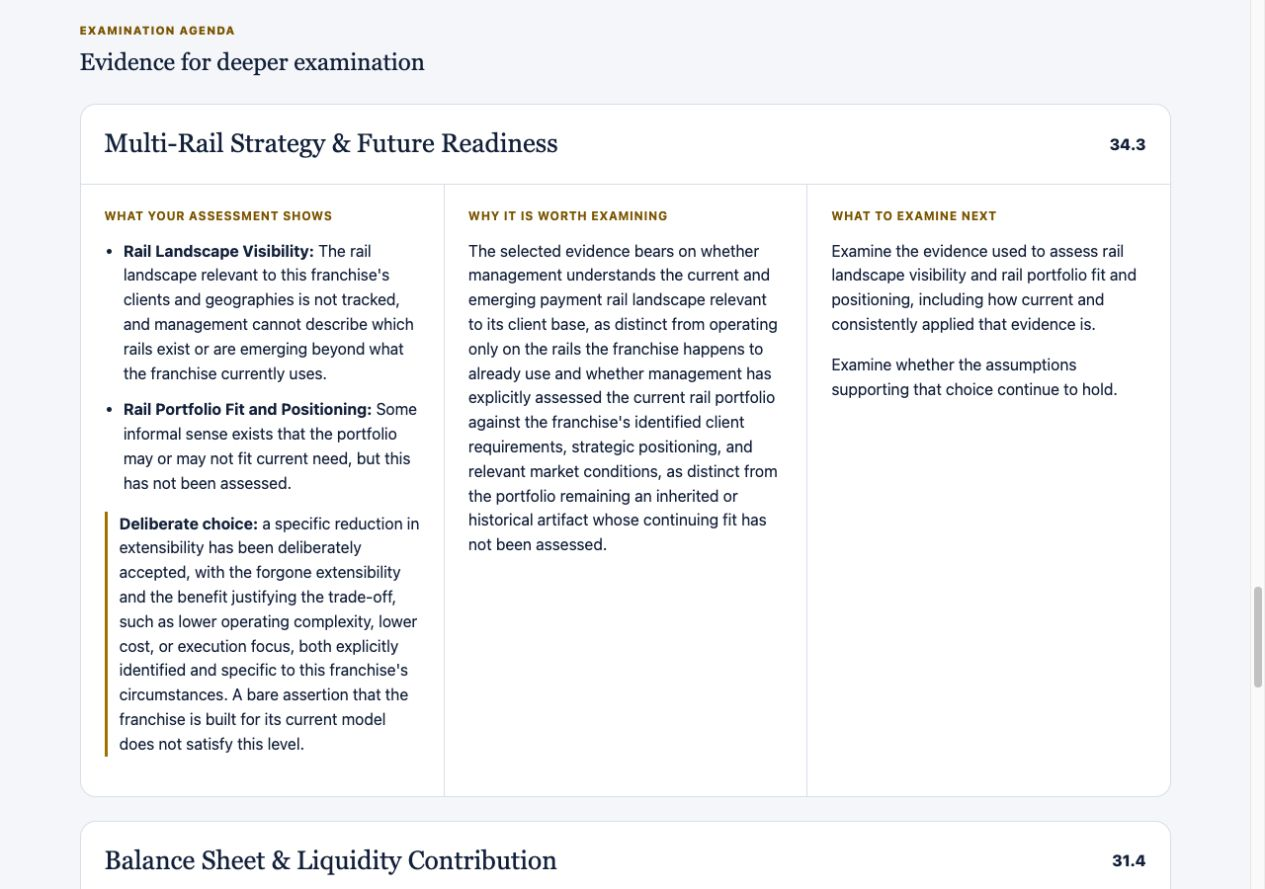
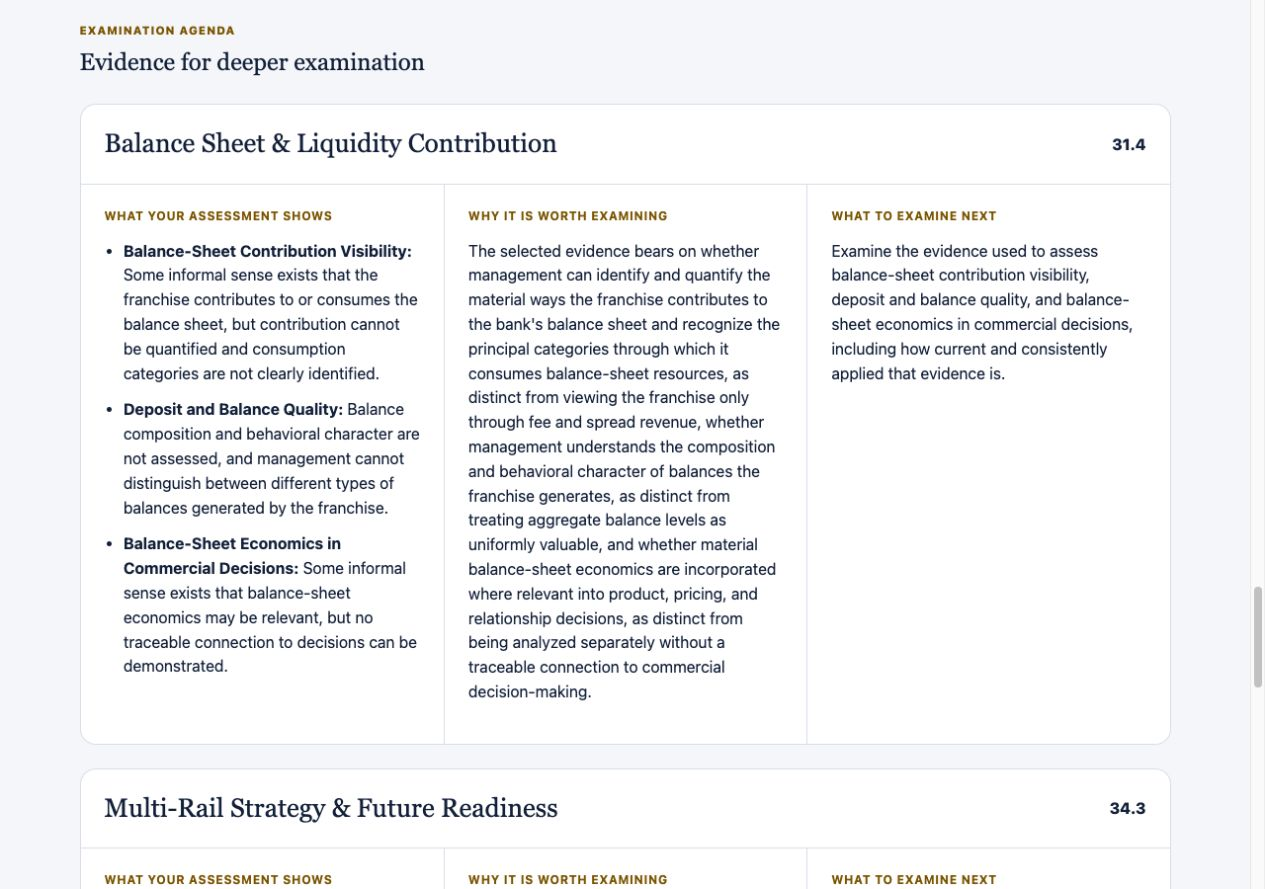
fix: use respondent dimension order in results

diff --git a/tests/results-experience.test.tsx b/tests/results-experience.test.tsx
@@ -11,6 +11,7 @@ import { generateAssessmentResult } from "../src/domain/results/generation";
 import type { GeneratedAssessmentResult } from "../src/domain/results/types";
 import { loadMp01GoldenFixture } from "../src/fixtures/load";
 import { bindMp01Responses } from "../src/fixtures/mp01";
+import { respondentDimensions } from "../src/domain/pfi/presentationOrder";
 import { InMemoryAssessmentRepository } from "../src/infrastructure/persistence/InMemoryAssessmentRepository";
 import { ResultsFoundationPage } from "../src/pages/ResultsFoundationPage";
 
@@ -109,20 +110,32 @@ describe("I4 results experience", () => {
     expect(screen.getByText(/not an independent verification/)).toBeVisible();
     expect(screen.getAllByText("Strength", { exact: true })).toHaveLength(3);
     expect(within(container.querySelector("#profile")!).getAllByText(/out of 100/, { selector: ".visually-hidden" })).toHaveLength(7);
+    const expectedPresentationOrder = respondentDimensions.map(
+      (dimension) => dimension.name,
+    );
+    expect(
+      [...container.querySelectorAll(".profile-row h3")].map((item) => item.textContent),
+    ).toEqual(expectedPresentationOrder);
+    const signalDimensionIds = new Set(result.signals.map((signal) => signal.dimensionId));
+    const expectedSignalOrder = respondentDimensions
+      .filter((dimension) => signalDimensionIds.has(dimension.id))
+      .map((dimension) => dimension.name);
     expect(
       [...container.querySelectorAll(".signal-group summary")].map((item) => item.textContent),
-    ).toEqual([
-      "Multi-Rail Strategy & Future Readiness",
-      "Balance Sheet & Liquidity Contribution",
-      "Margin & Cost Structure",
-    ]);
+    ).toEqual(expectedSignalOrder);
+    const agendaDimensionIds = new Set(
+      result.examinationAgenda.map((entry) => entry.dimensionId),
+    );
+    const expectedAgendaOrder = respondentDimensions
+      .filter((dimension) => agendaDimensionIds.has(dimension.id))
+      .map((dimension) => dimension.name);
     expect(
       [...container.querySelectorAll(".agenda-heading h3")].map((item) => item.textContent),
-    ).toEqual([
-      "Multi-Rail Strategy & Future Readiness",
-      "Balance Sheet & Liquidity Contribution",
-      "Margin & Cost Structure",
-    ]);
+    ).toEqual(expectedAgendaOrder);
+    const patternText = container.querySelector(".pattern-copy")?.textContent ?? "";
+    expect(patternText.indexOf("Balance Sheet & Liquidity Contribution")).toBeLessThan(
+      patternText.indexOf("Multi-Rail Strategy & Future Readiness"),
+    );
 
     const growthRow = screen.getByRole("heading", { name: "Growth Engine Quality" }).closest("li");
     expect(growthRow).not.toBeNull();

diff --git a/src/components/ResultsExperience.tsx b/src/components/ResultsExperience.tsx
@@ -1,4 +1,5 @@
 import { pfiModel } from "../domain/pfi/model";
+import { respondentDimensionIds } from "../domain/pfi/presentationOrder";
 import type {
   CompositeResult,
   GeneratedAssessmentResult,
@@ -129,12 +130,13 @@ function ProfileRow({ entry }: { entry: ProfileEntry }) {
 }
 
 export function ResultsExperience({ result }: { result: GeneratedAssessmentResult }) {
-  const profile = [...result.profile].sort((left, right) => {
-    const leftScore = left.dimension.score ?? -1;
-    const rightScore = right.dimension.score ?? -1;
-    return rightScore - leftScore;
+  const profile = respondentDimensionIds.map((dimensionId) => {
+    const entry = result.profile.find(
+      (candidate) => candidate.dimension.dimensionId === dimensionId,
+    );
+    if (!entry) throw new Error(`Profile is missing dimension ${dimensionId}`);
+    return entry;
   });
-  const profileDimensionOrder = profile.map((entry) => entry.dimension.dimensionId);
   const signalsByDimension = new Map<string, typeof result.signals>();
   for (const signal of result.signals) {
     signalsByDimension.set(signal.dimensionId, [
@@ -142,14 +144,13 @@ export function ResultsExperience({ result }: { result: GeneratedAssessmentResul
       signal,
     ]);
   }
-  const orderedSignalDimensionIds = [...signalsByDimension.keys()].sort(
-    (left, right) =>
-      profileDimensionOrder.indexOf(left) - profileDimensionOrder.indexOf(right),
+  const orderedSignalDimensionIds = respondentDimensionIds.filter((dimensionId) =>
+    signalsByDimension.has(dimensionId),
   );
   const orderedAgenda = [...result.examinationAgenda].sort((left, right) => {
     return (
-      profileDimensionOrder.indexOf(left.dimensionId) -
-      profileDimensionOrder.indexOf(right.dimensionId)
+      respondentDimensionIds.indexOf(left.dimensionId as (typeof respondentDimensionIds)[number]) -
+      respondentDimensionIds.indexOf(right.dimensionId as (typeof respondentDimensionIds)[number])
     );
   });
 
@@ -221,7 +222,7 @@ export function ResultsExperience({ result }: { result: GeneratedAssessmentResul
       <section aria-labelledby="pattern-heading" className="pattern-section" id="pattern">
         <div className="section-kicker">Pattern</div>
         <h2 id="pattern-heading">Whole-profile synthesis</h2>
-        <p className="pattern-copy">{patternCopy(result.pattern, profileDimensionOrder)}</p>
+        <p className="pattern-copy">{patternCopy(result.pattern)}</p>
         <p className="pattern-bridge">The next section moves from whole-profile description to specific evidence that met PFI&apos;s rules for deeper examination.</p>
       </section>
 

diff --git a/src/application/results/content.ts b/src/application/results/content.ts
@@ -1,5 +1,6 @@
 import { pfiV28Catalog } from "../../domain/assessment/catalog";
 import { pfiModel } from "../../domain/pfi/model";
+import { respondentDimensionIds } from "../../domain/pfi/presentationOrder";
 import type {
   ExaminationAgendaEntry,
   GeneratedAssessmentResult,
@@ -25,17 +26,15 @@ function formatList(items: string[]): string {
   return `${items.slice(0, -1).join(", ")}, and ${items.at(-1)}`;
 }
 
-export function patternCopy(
-  pattern: PatternResult,
-  profileDimensionOrder: string[],
-): string {
-  const byProfileOrder = (ids: string[]) =>
+export function patternCopy(pattern: PatternResult): string {
+  const byPresentationOrder = (ids: string[]) =>
     [...ids].sort(
       (left, right) =>
-        profileDimensionOrder.indexOf(left) - profileDimensionOrder.indexOf(right),
+        respondentDimensionIds.indexOf(left as (typeof respondentDimensionIds)[number]) -
+        respondentDimensionIds.indexOf(right as (typeof respondentDimensionIds)[number]),
     );
   if (pattern.kind === "strength-signal-convergence") {
-    return `Strength evidence appears across ${formatList(byProfileOrder(pattern.strengthDimensionIds).map(dimensionName))}, while qualifying question-level signals occur within ${formatList(byProfileOrder(pattern.signalDimensionIds).map(dimensionName))} rather than being scattered elsewhere in the profile.`;
+    return `Strength evidence appears across ${formatList(byPresentationOrder(pattern.strengthDimensionIds).map(dimensionName))}, while qualifying question-level signals occur within ${formatList(byPresentationOrder(pattern.signalDimensionIds).map(dimensionName))} rather than being scattered elsewhere in the profile.`;
   }
   if (pattern.kind === "isolated-signal") {
     return `A qualifying question-level signal appears within ${dimensionName(pattern.signalDimensionId)}, while no pronounced broader cross-dimension pattern is evident from this assessment.`;

diff --git a/docs/implementation/decision-defect-log.md b/docs/implementation/decision-defect-log.md
@@ -248,15 +248,16 @@ engine prevents UI components from becoming a second scoring implementation.
 ## I4-002 — Gate 4C density and sequence treatment
 
 **Decision:** Keep the substantive order Result → Profile → Signals → Pattern →
-Examination Agenda → Next Step. Within the MP-01 result, Profile uses the locked
-Gate 4C score-descending evidence-shape treatment; Signal groups, Pattern named
-dimensions, and Agenda entries follow that visible Profile order for consistent
-orientation. Signals use native disclosure controls, while Pattern remains a
-flat editorial passage and Agenda uses the three semantic jobs in reading order.
+Examination Agenda → Next Step. Profile rows, Signal groups, Pattern named
+dimensions, and Agenda entries all consume the single respondent-facing
+dimension order in `presentationOrder.ts`. Signals use native disclosure
+controls, while Pattern remains a flat editorial passage and Agenda uses the
+three semantic jobs in reading order.
 
-**Rationale:** Gate 4C v0.2 supplies the final visual hierarchy and canonical
-MP-01 treatment. This ordering changes presentation only and does not alter v28
-weights, I3 arrays, qualification, or result facts.
+**Rationale:** Gate 4C v0.2 supplies the final visual hierarchy, and the reviewed
+I2 presentation contract prevents score or methodology order from becoming an
+unintended structural ranking. This ordering changes presentation only and does
+not alter v28 weights, I3 arrays, qualification, or result facts.
 
 ## I4-003 — I4 Next Step boundary excludes commercial behavior
 
